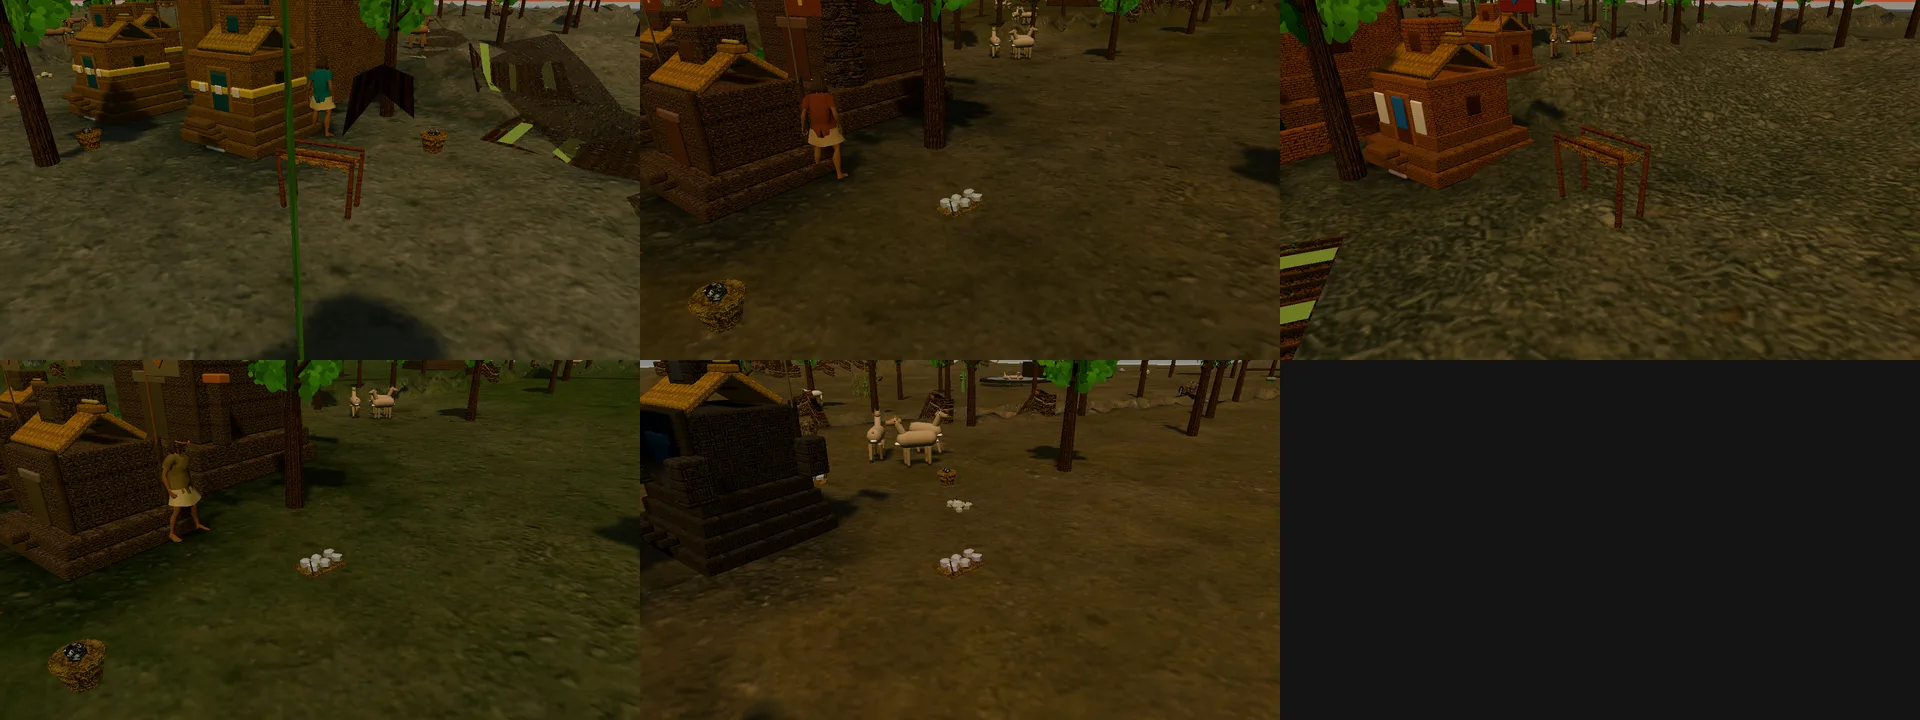
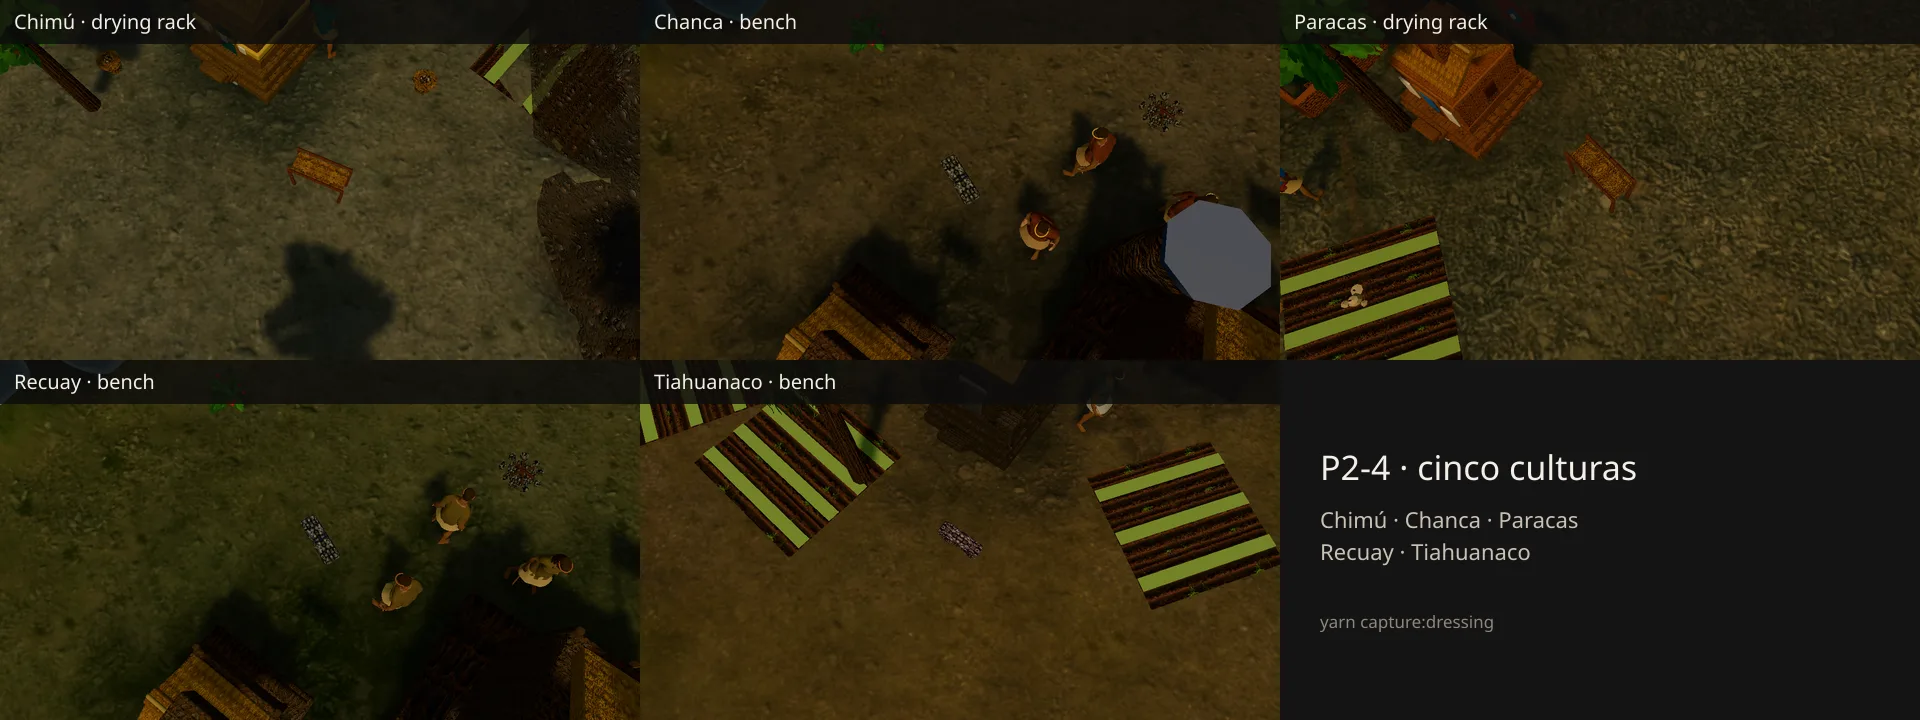
fix(sites): keep the new dressing claims inside the dossiers

diff --git a/tests/settlement-dressing.test.ts b/tests/settlement-dressing.test.ts
@@ -119,12 +119,18 @@ describe('settlement dressing', () => {
     expect(kinds.inca.filter((kind) => kind === 'basket').length).toBeGreaterThanOrEqual(2);
     expect(kinds.wari).toContain('cotton');
     expect(kinds.paracas).toContain('cotton');
-    // The household kit is limited to the props that exist; the dressed stone is architecture (Chavín/Tiahuanaco).
+    // `cotton` is a crop prop: the three sets with no documented cotton/weaving do not place it.
+    for (const profile of ['chanca', 'recuay', 'tiahuanaco'] as const) {
+      expect(kinds[profile], profile).not.toContain('cotton');
+    }
+    // The household kit is limited to the props that exist; Tiahuanaco's dressed stone is architecture.
     expect(kinds.tiahuanaco).not.toContain('megalith');
     expect(kinds.chimu).not.toContain('megalith');
     // Only Chavin keeps the ritual set.
     expect(kinds.chavin).toContain('stela');
     for (const profile of PROFILES) if (profile !== 'chavin') expect(kinds[profile], profile).not.toContain('stela');
+    // The hand list is the type-safe mirror of the map; keep them in sync.
+    expect([...PROFILES].sort()).toEqual(Object.keys(DRESSING_SETS).sort());
     // Every profile keeps its pinned budget, so a set cannot quietly grow.
     for (const profile of PROFILES) expect(DRESSING_SETS[profile].sequence.length, profile).toBe(PROP_BUDGET[profile]);
     // Every set has its own tint except Caral/Chavín, which share the reviewed neutral white.
@@ -132,9 +138,10 @@ describe('settlement dressing', () => {
     expect(new Set(tints).size).toBe(PROFILES.length - 1);
     expect(DRESSING_SETS.caral.tint).toBe(0xffffff);
     expect(DRESSING_SETS.chavin.tint).toBe(0xffffff);
-    const [caral, chavin, moche, wari, inca, chimu, chanca, paracas, recuay, tiahuanaco] = PROFILES.map(
-      (profile) => new THREE.Color(DRESSING_SETS[profile].tint),
-    );
+    const tint = (profile: (typeof PROFILES)[number]) => new THREE.Color(DRESSING_SETS[profile].tint);
+    const { caral, chavin, moche, wari, inca, chimu, chanca, paracas, recuay, tiahuanaco } = Object.fromEntries(
+      PROFILES.map((profile) => [profile, tint(profile)]),
+    ) as Record<(typeof PROFILES)[number], THREE.Color>;
     expect(moche.r - moche.b).toBeGreaterThan(0.1);
     expect(wari.b - wari.r).toBeGreaterThan(0.02);
     expect(inca.r - inca.b).toBeGreaterThan(moche.r - moche.b);
@@ -142,8 +149,9 @@ describe('settlement dressing', () => {
     expect(chimu.r - chimu.b).toBeGreaterThan(0.05);
     expect(paracas.r - paracas.b).toBeGreaterThan(0.05);
     expect(chanca.g - chanca.r).toBeGreaterThan(0.01);
-    expect(recuay.b - recuay.r).toBeGreaterThan(0.02);
-    expect(tiahuanaco.b - tiahuanaco.g).toBeGreaterThan(0.01);
+    expect(recuay.b - recuay.r).toBeGreaterThan(0.04);
+    expect(recuay.b - recuay.g).toBeGreaterThan(0.01);
+    expect(tiahuanaco.r - tiahuanaco.g).toBeGreaterThan(0.04);
     expect(caral.getHex()).toBe(0xffffff);
     expect(chavin.getHex()).toBe(0xffffff);
   });
@@ -290,7 +298,15 @@ describe('dressing profiles', () => {
     // The 1780 rebellion is `INCA` but a colonial camp: no Incan household there.
     expect(dressingProfileFor(CivId.INCA, 'm7_tupac_amaru')).toBeNull();
     // Cultures without an authored set stay bare rather than borrowing one.
-    for (const civ of [CivId.CUPISNIQUE, CivId.NAZCA, CivId.CHINCHA, CivId.COLLAS_LUPACA, CivId.HUANCA]) {
+    for (const civ of [
+      CivId.CUPISNIQUE,
+      CivId.NAZCA,
+      CivId.CHINCHA,
+      CivId.COLLAS_LUPACA,
+      CivId.HUANCA,
+      CivId.INCA_KILLKE,
+      CivId.AYLLUS,
+    ]) {
       expect(dressingProfileFor(civ), CivId[civ]).toBeNull();
     }
     expect(dressingProfileFor(CivId.PATRIOTAS)).toBeNull();

diff --git a/src/model/defs/settlementDressing.ts b/src/model/defs/settlementDressing.ts
@@ -46,11 +46,16 @@ export interface DressingQuery extends TerrainQuery {
 /**
  * The household set of each culture, built from the same prop kinds: what changes is the mix and the tint,
  * not the geometry. The coast (Moche, Chimú, Paracas) keeps the fish drying rack and gourds; the highlands
- * (Wari, Inca, Chanca, Recuay) lean on baskets, cotton and benches, and Tiahuanaco adds the dressed megalith
- * its monumental architecture is known for. Undocumented parts follow the audit's remedy of reusing the Caral
- * set: `docs/release/0.2.0-asset-historical-audit.md` P2-4, and the economy in
- * `docs/historia/civilizaciones/{moche,wari,inca,chimu,chanca,paracas,recuay,tiahuanaco}.md`. The loom remains
- * a gap: no prop exists.
+ * (Wari, Inca, Chanca, Recuay, Tiahuanaco) keep baskets, benches and windbreaks. `cotton` is a crop prop, so it
+ * appears only where cotton growing or weaving is documented (Caral, Moche, Chimú, Paracas, Wari, Inca); the
+ * Chanca dossier
+ * documents organisation and war but no household economy, so its set is the audit's reuse remedy in a highland
+ * setting, not a claim about Chanca crafts. Tiahuanaco's dressed stone is architecture; the household kit has no
+ * stone prop. Undocumented parts follow the audit's remedy of reusing the Caral set:
+ * `docs/release/0.2.0-asset-historical-audit.md` P2-4, and the economy in
+ * `docs/historia/civilizaciones/{moche,wari,inca,chimu,chanca,paracas,recuay,tiahuanaco}.md` where it exists.
+ * The tints are presentation-only (a multiply that separates cultures at a glance), not a material claim. The
+ * loom remains a gap: no prop exists.
  */
 export interface DressingSet {
   /** Props placed, in order. */
@@ -124,25 +129,26 @@ export const DRESSING_SETS: Record<SettlementDressingProfile, DressingSet> = {
     tint: 0xf7e6d2,
     sequence: ['hearth', 'drying_rack', 'basket', 'gourd', 'cotton', 'bench', 'drying_rack', 'basket', 'gourd'],
   },
-  // Chanca: the militarised central-south highland confederation; no coastal rack.
+  // Chanca: the militarised central-south highland confederation; no household economy is documented, so this
+  // is the audit's reuse remedy in a highland setting (no rack, no cotton crop claim).
   chanca: {
     tint: 0xe0e6dc,
-    sequence: ['hearth', 'basket', 'cotton', 'bench', 'windbreak', 'gourd', 'cotton', 'basket'],
+    sequence: ['hearth', 'basket', 'basket', 'bench', 'windbreak', 'gourd', 'basket', 'bench'],
   },
   // Paracas: desert-coast fishing, valley agriculture and textiles; the drying rack stays.
   paracas: {
     tint: 0xf3dcc4,
     sequence: ['cotton', 'gourd', 'drying_rack', 'basket', 'hearth', 'cotton', 'gourd', 'windbreak'],
   },
-  // Recuay: Callejón de Huaylas camelid herding plus agriculture; the highland set without a rack.
+  // Recuay: Callejón de Huaylas camelid herding plus agriculture; no cotton at that altitude in the set.
   recuay: {
-    tint: 0xdfe7ea,
-    sequence: ['hearth', 'basket', 'cotton', 'bench', 'windbreak', 'gourd', 'basket', 'cotton'],
+    tint: 0xd6e4e8,
+    sequence: ['hearth', 'basket', 'gourd', 'bench', 'windbreak', 'basket', 'gourd', 'bench'],
   },
   // Tiahuanaco: altiplano waru-waru agriculture and camelids; its dressed stone is architecture, not a household prop.
   tiahuanaco: {
-    tint: 0xe7e0ea,
-    sequence: ['hearth', 'basket', 'cotton', 'bench', 'basket', 'gourd', 'cotton', 'windbreak'],
+    tint: 0xead9ea,
+    sequence: ['hearth', 'basket', 'gourd', 'bench', 'basket', 'gourd', 'bench', 'windbreak'],
   },
 };
 

diff --git a/src/core/WorldViewDecor.ts b/src/core/WorldViewDecor.ts
@@ -1573,7 +1573,7 @@ export class WorldViewDecor {
     applyFowToObject(dressing.group, this.game.fowUniforms);
     this.game.scene.add(dressing.group);
     this.game.settlementDressing.push(dressing);
-    // Chavín's ritual set has no kit yet; every household set (Caral and the three culture variants) uses the
+    // Chavín's ritual set has no kit yet; every household set (Caral and the nine culture variants) uses the
     // Caral household pieces, tinted per culture, when the batch arrives (one GLB per piece, cached per match).
     if (profile !== 'chavin') {
       void loadDressingKit()

diff --git a/docs/design/visual-language.md b/docs/design/visual-language.md
@@ -401,16 +401,21 @@ other fauna keep the procedural bodies.
 The dressing planner carries a household set per culture (`SettlementDressingProfile`), built from the same
 prop kinds so no new geometry is needed. The coast keeps the fish drying rack: **Moche**, **Chimú** (canal
 irrigation, caballitos de totora) and **Paracas** (desert-coast fishing, valley agriculture, textiles) mix racks,
-gourds, baskets and cotton. The highlands drop the rack: **Wari** (state workshops), the **Inca** (qollqa,
-textiles), **Chanca** (central-south highland confederation), **Recuay** (Callejón de Huaylas camelids) and
-**Tiahuanaco** (altiplano waru-waru agriculture) lean on baskets, cotton and benches. Each set multiplies a
+gourds, baskets and cotton. The highlands drop the rack: **Wari** (state workshops, textiles) and the **Inca**
+(qollqa, textiles) keep cotton; **Chanca** (a central-south highland confederation whose dossier documents
+organisation and war, not a household economy), **Recuay** (Callejón de Huaylas camelids and agriculture) and
+**Tiahuanaco** (altiplano waru-waru agriculture and camelids) use baskets, gourds, benches and windbreaks only.
+`cotton` is a crop prop, so it appears only where cotton growing or weaving is documented. Each set multiplies a
 material tint over the shared kit pieces — warm sand on the coast, cool grey-green or blue in the highlands,
 violet-grey on the altiplano, deeper ochre for the Inca — so the same baskets read as different cultures without
-a second prop kit. Caral and Chavín keep their reviewed colour (white). The loom (`telar`) that P2-4 also lists
-remains a gap: there is no loom prop yet, so no set places one. The sets cover Caral, Chavín, Moche, Wari, the
-Inca (including the Cusco 1536 and Vilcabamba 1572 households), Chimú, Chanca, Paracas, Recuay and Tiahuanaco.
-The colonial and republican armies keep no set, and 1780's rebellion is `INCA` but a colonial camp, so
-`dressingProfileFor` returns none for `m7_tupac_amaru`. Sources:
+a second prop kit; the tint is presentation-only, not a material claim. Caral and Chavín keep their reviewed
+colour (white). The loom (`telar`) that P2-4 also lists remains a gap: there is no loom prop yet, so no set
+places one. The sets cover Caral, Chavín, Moche, Wari, the Inca (including the Cusco 1536 and Vilcabamba 1572
+households), Chimú, Chanca, Paracas, Recuay and Tiahuanaco; this **partially closes P2-4**. Still bare: the
+seven pre-contact cultures without an authored set (Cupisnique, Nazca, Chincha, Collas Lupaca, Huanca, Killke and
+the Ayllus), the colonial and republican bases (m_lima, m8, m_real_felipe, m_tarapaca, m9, m_miraflores, m_brena)
+and 1780's rebellion, which is `INCA` but a colonial camp, so `dressingProfileFor` returns none for
+`m7_tupac_amaru`. Sources:
 [`moche.md`](../historia/civilizaciones/moche.md), [`wari.md`](../historia/civilizaciones/wari.md),
 [`inca.md`](../historia/civilizaciones/inca.md), [`chimu.md`](../historia/civilizaciones/chimu.md),
 [`chanca.md`](../historia/civilizaciones/chanca.md), [`paracas.md`](../historia/civilizaciones/paracas.md),
@@ -419,10 +424,12 @@ The colonial and republican armies keep no set, and 1780's rebellion is `INCA` b
 audit's remedy for P2-4 (reuse the Caral set), not from an excavated household inventory: the mix is a
 presentation abstraction.
 
-Evidence: the five culture bases in `docs/media/dressing-cultures.webp` and the Chimú before/after pair in
-`docs/media/dressing-cultures-chimu-before-after.webp`, reproduced with
-`node scripts/capture_dressing_cultures.mjs --out=docs/media/dressing-cultures` (skirmish bases per culture,
-seed 777, props hidden and shown, UI hidden). The earlier Moche pair
+Evidence: [`dressing-cultures.webp`](../media/dressing-cultures.webp) (the five bases, labelled, 1920×720) and
+[`dressing-cultures-chimu-before-after.webp`](../media/dressing-cultures-chimu-before-after.webp) (Chimú with
+the props hidden and shown, 1280×360), reproduced with
+`yarn capture:dressing --out=docs/media/dressing-cultures` (skirmish bases per culture, seed 777, UI hidden).
+The capture frames the player's seat of each culture; the AI bases of m2–m4 use the same
+`dressingProfileFor` profile through `StartBaseBuilder` and are not separately captured. The earlier Moche pair
 [`moche-dressing-before.webp`](../media/moche-dressing-before.webp) /
 [`moche-dressing-after.webp`](../media/moche-dressing-after.webp) stays as the pilot capture.
 
